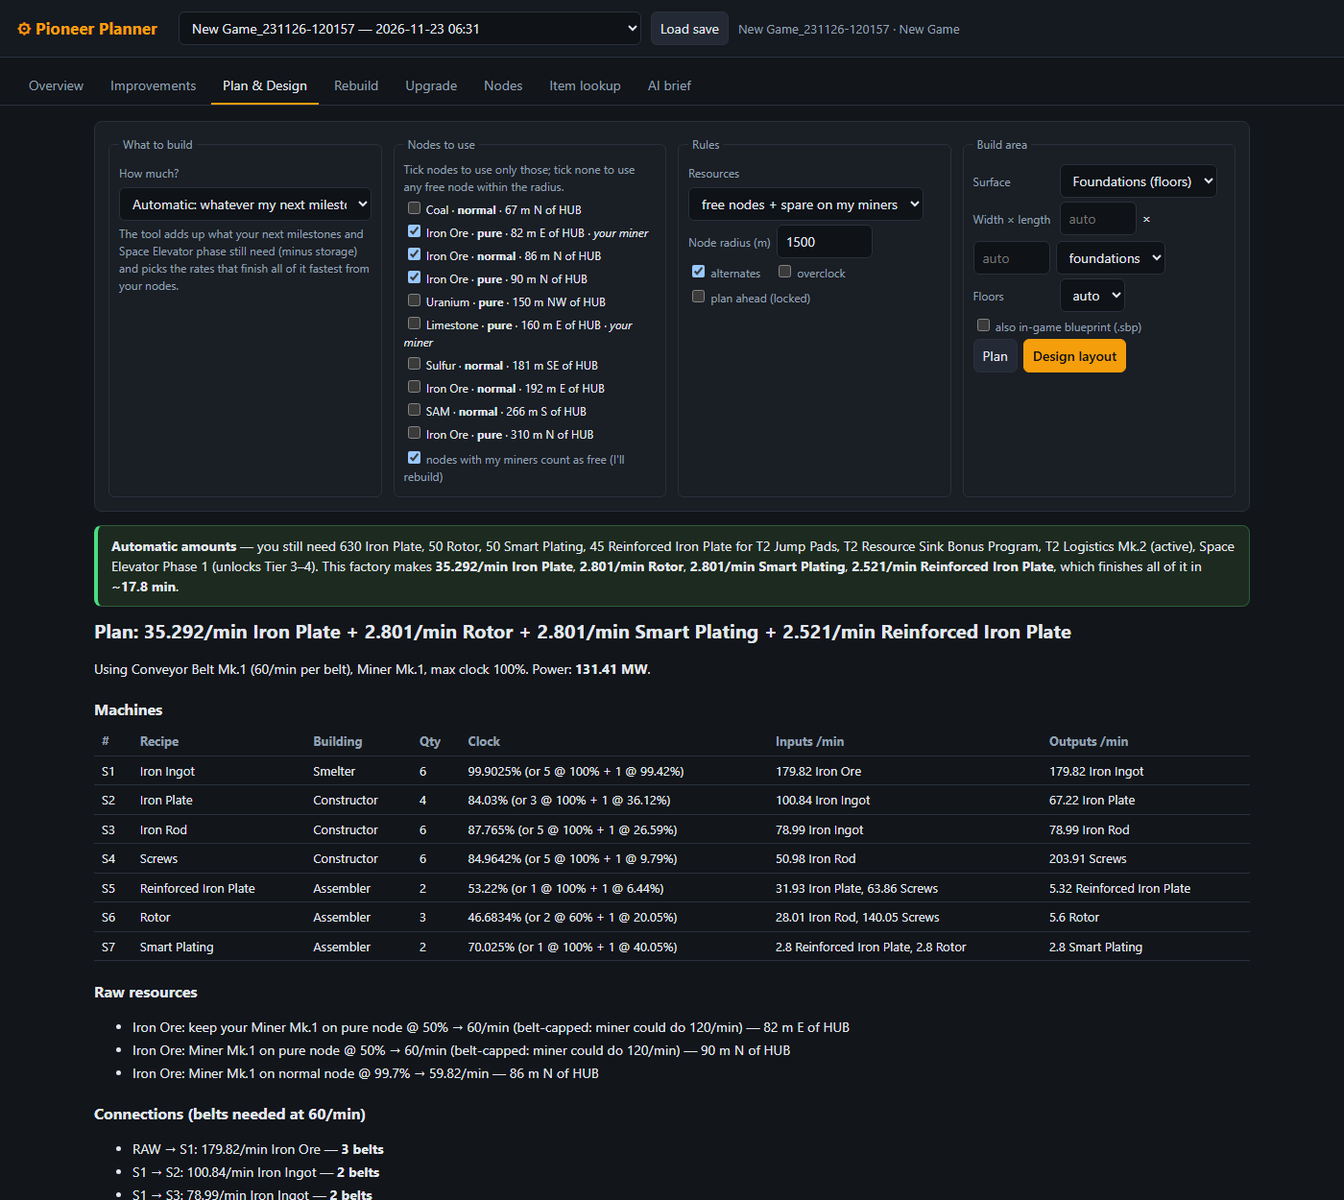
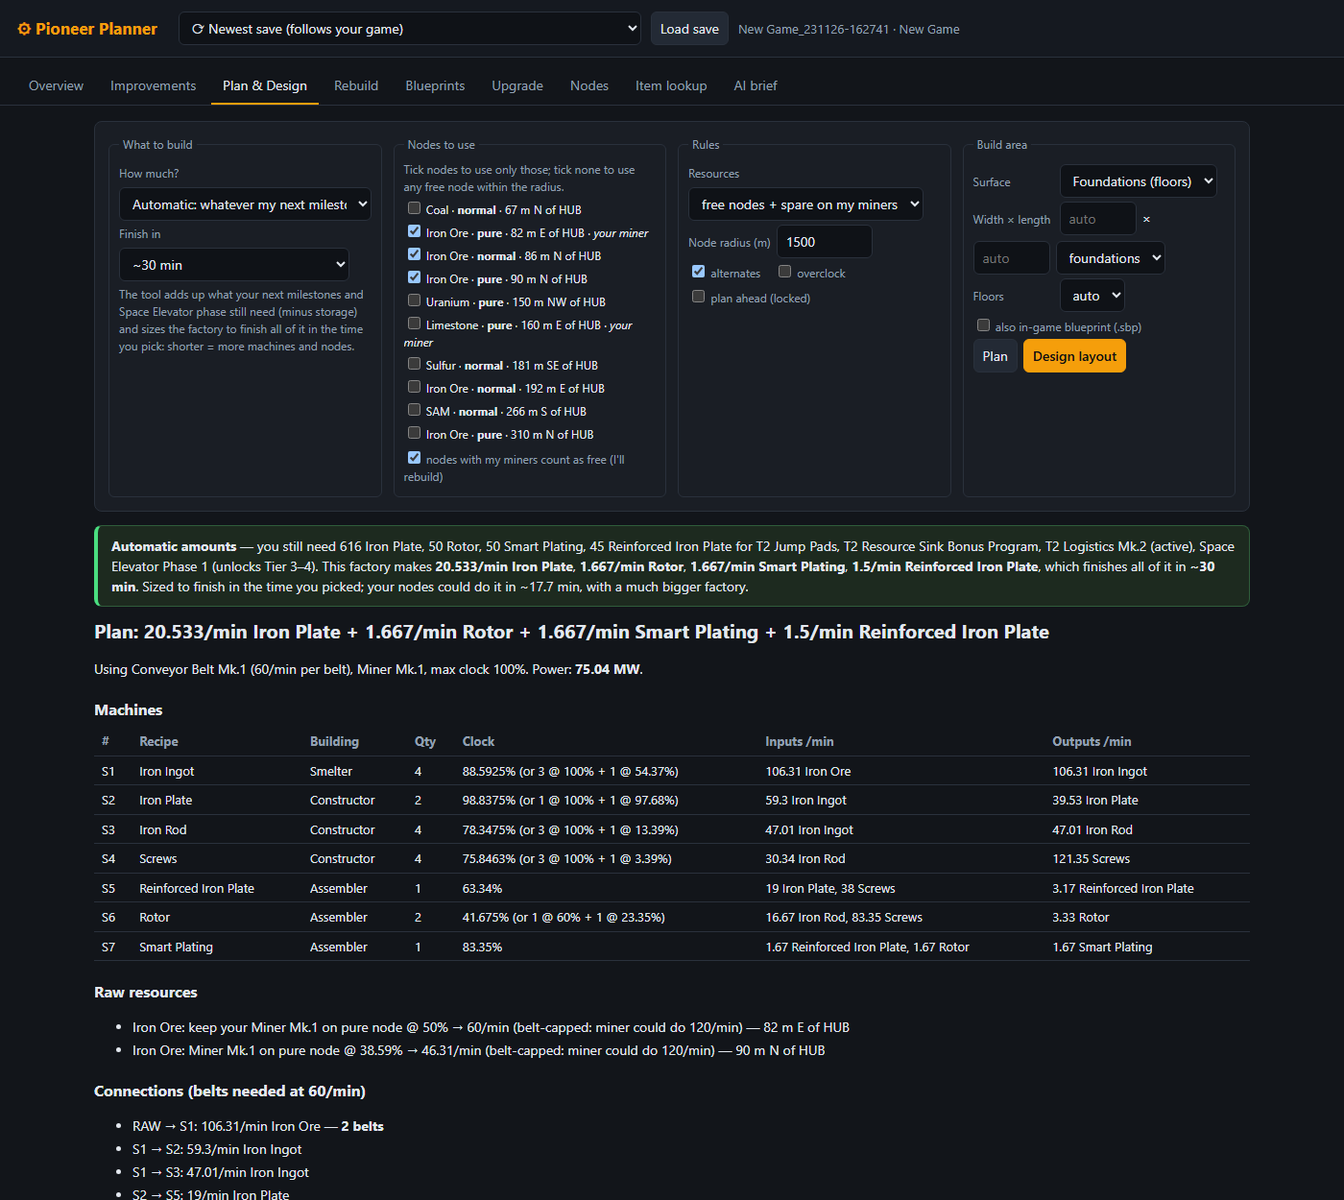
Size the automatic milestone factory to a finish time (default 30 min)
The milestones/active goal used to plan the fastest possible finish, which
pulled in every free node within the radius: on a Tier 2 save that was 228
machines and 1.3 GW to finish in 1.9 min. It now sizes the factory to finish
in a chosen time (default 30 min; 15 min to 2 h, or "fastest"), falling back
to the fastest the nodes allow when they can't reach it.

- "Finish in" choice on Plan & Design and Rebuild (+ deep link &minutes=)
- CLI --minutes N|fastest, MCP goal_minutes
- Result explains the choice and how fast the nodes could go
- Test, README and plan screenshot updated

diff --git a/src/web/public/index.html b/src/web/public/index.html
@@ -81,6 +81,7 @@ a.btn{display:inline-block;text-decoration:none;color:var(--text);background:#23
           <option value="items">Automatic: these items, as much as my nodes allow</option>
           <option value="targets">I'll type the amounts</option>
         </select></div>
+        <div class="row" id="minutesRow"><label>Finish in</label><select id="goalMinutes"><option value="15">~15 min (bigger factory)</option><option value="30" selected>~30 min</option><option value="60">~1 hour (smaller)</option><option value="120">~2 hours (smallest)</option><option value="fastest">as fast as my nodes allow (huge)</option></select></div>
         <div id="goalHint" class="hint"></div>
         <div id="targetsWrap">
           <div id="targets"></div>
@@ -114,6 +115,7 @@ a.btn{display:inline-block;text-decoration:none;color:var(--text);background:#23
       <fieldset><legend>1 · Nodes to use (none ticked = any node nearby)</legend><div id="rbNodes" class="hint">Loading nearby nodes…</div></fieldset>
       <fieldset><legend>2 · Goal &amp; tear-down</legend>
         <div class="row"><label>Build for</label><select id="rbGoal"><option value="tier">everything my next milestones + space elevator need</option><option value="active">only my active milestone</option><option value="targets">the targets on the Plan tab</option></select></div>
+        <div class="row" id="rbMinutesRow"><label>Finish in</label><select id="rbMinutes"><option value="15">~15 min (bigger factory)</option><option value="30" selected>~30 min</option><option value="60">~1 hour (smaller)</option><option value="120">~2 hours (smallest)</option><option value="fastest">as fast as my nodes allow (huge)</option></select></div>
         <div class="row"><button id="rbNeeds">What do I still need?</button></div>
         <div class="row"><label>Dismantle</label><select id="rbScope"><option value="near">old lines within</option><option value="all">all old lines</option><option value="none">nothing</option></select><input type="number" id="rbRadius" value="250" style="width:80px"> m of HUB</div>
         <div class="row"><label><input type="checkbox" id="rbPower"> also lines that feed my power</label></div>
@@ -318,7 +320,7 @@ async function loadNodePicker(containerId, cls) {
 }
 const loadRbNodes = () => loadNodePicker('rbNodes', 'rbNode');
 const GOAL_HINTS = {
-  milestones: 'The tool adds up what your next milestones and Space Elevator phase still need (minus storage) and picks the rates that finish all of it fastest from your nodes.',
+  milestones: 'The tool adds up what your next milestones and Space Elevator phase still need (minus storage) and sizes the factory to finish all of it in the time you pick: shorter = more machines and nodes.',
   active: 'Like above, but only for the milestone you have selected in the HUB.',
   items: 'Pick the items; leave the amount blank and the tool makes as much as your nodes allow (the mix follows what your milestones need). You can still type an amount for some of them.',
   targets: 'Type how many per minute you want of each item.',
@@ -328,11 +330,14 @@ function syncGoalMode() {
   // item modes always show at least one row to type into
   if ((g === 'items' || g === 'targets') && !document.querySelector('#targets .target')) addTarget();
   $('targetsWrap').style.display = g === 'milestones' || g === 'active' ? 'none' : '';
+  $('minutesRow').style.display = g === 'milestones' || g === 'active' ? '' : 'none';
   $('maxRow').style.display = g === 'targets' ? '' : 'none';
   $('goalHint').textContent = GOAL_HINTS[g];
   document.querySelectorAll('#targets .target input[type=number]').forEach((i) => { i.placeholder = g === 'items' ? 'auto' : '/min'; });
 }
 $('goalMode').onchange = syncGoalMode;
+// the finish time only applies to the automatic milestone goals
+$('rbGoal').onchange = () => { $('rbMinutesRow').style.display = $('rbGoal').value === 'targets' ? 'none' : ''; };
 async function loadItems() {
   const j = await api('/api/items');
   $('itemsList').innerHTML = j.data.map((x) => `<option value="${esc(x.name)}">${x.unlocked ? '' : '🔒 locked'}</option>`).join('');
@@ -371,6 +376,7 @@ async function deepLink(qp) {
     if (qp.get('line')) await $('upLineBtn').onclick();
   } else if (tab === 'plan') {
     if (qp.get('goal')) { $('goalMode').value = qp.get('goal'); syncGoalMode(); }
+    if (qp.get('minutes')) $('goalMinutes').value = qp.get('minutes');
     for (const id of (qp.get('nodes') || '').split(',').filter(Boolean)) {
       const cb = [...document.querySelectorAll('.planNode')].find((c) => c.value === id);
       if (cb) cb.checked = true;
@@ -380,6 +386,7 @@ async function deepLink(qp) {
     else if (qp.get('run') === 'plan') await $('planBtn').onclick();
   } else if (tab === 'rebuild') {
     await loadRbNodes();
+    if (qp.get('minutes')) $('rbMinutes').value = qp.get('minutes');
     for (const id of (qp.get('nodes') || '').split(',').filter(Boolean)) {
       const cb = [...document.querySelectorAll('.rbNode')].find((c) => c.value === id);
       if (cb) cb.checked = true;
@@ -436,6 +443,7 @@ function request() {
   const nodes = [...document.querySelectorAll('.planNode:checked')].map((c) => c.value);
   return {
     goal: g,
+    goalMinutes: $('goalMinutes').value,
     targets,
     nodes: nodes.length ? nodes : undefined,
     rebuild: $('planRebuild').checked,
@@ -654,7 +662,7 @@ function rbBody() {
   const base = request();
   // "the targets on the Plan tab" keeps that tab's mode (typed amounts or automatic items)
   const planGoal = ['milestones', 'active'].includes(base.goal) ? 'items' : base.goal;
-  const req = { ...base, nodes: nodes.length ? nodes : undefined, rebuild: true, goal: goal === 'targets' ? planGoal : goal === 'active' ? 'active' : 'milestones', targets: goal === 'targets' ? base.targets : [], maximize: goal === 'targets' ? base.maximize : undefined, resources: 'free-nodes' };
+  const req = { ...base, goalMinutes: $('rbMinutes').value, nodes: nodes.length ? nodes : undefined, rebuild: true, goal: goal === 'targets' ? planGoal : goal === 'active' ? 'active' : 'milestones', targets: goal === 'targets' ? base.targets : [], maximize: goal === 'targets' ? base.maximize : undefined, resources: 'free-nodes' };
   const floors = $('rbFloors').value;
   const ar = { mode: $('rbMode').value, width: Number($('rbWidth').value) || undefined, length: Number($('rbLength').value) || undefined, unit: $('rbUnit').value, floors: floors === 'auto' ? 'auto' : Number(floors), blueprint: $('rbBp').checked };
   const scope = { scope: $('rbScope').value, radius: Number($('rbRadius').value) || 250, includePower: $('rbPower').checked };

diff --git a/src/mcp/server.js b/src/mcp/server.js
@@ -46,8 +46,9 @@ const planShape = {
   nearest_nodes: z.number().int().optional().describe('Use only the N nearest nodes to the site'),
   node_resources: z.array(z.string()).optional().describe('With nearest_nodes: only count nodes of these resources, e.g. ["Iron Ore"]'),
   rebuild: z.boolean().optional().describe('Treat nodes that already have a miner as fully free (their old consumers will be dismantled; the miner is kept)'),
-  goal: z.enum(['targets', 'milestones', 'active', 'items']).optional().describe('How amounts are chosen. targets: the rates you give. milestones: AUTOMATIC — everything the milestones the player can buy now (+ next Space Elevator phase) still need beyond storage, finishing all of it fastest. active: same for the active milestone only. items: AUTOMATIC — the auto_items as much as the nodes allow. Use milestones/items when the player does not know how much to make.'),
+  goal: z.enum(['targets', 'milestones', 'active', 'items']).optional().describe('How amounts are chosen. targets: the rates you give. milestones: AUTOMATIC — everything the milestones the player can buy now (+ next Space Elevator phase) still need beyond storage, sized to finish all of it in goal_minutes (default 30). active: same for the active milestone only. items: AUTOMATIC — the auto_items as much as the nodes allow. Use milestones/items when the player does not know how much to make.'),
   auto_items: z.array(z.string()).optional().describe('With goal "items": items to make without fixed rates (amounts chosen automatically)'),
+  goal_minutes: z.union([z.number().positive(), z.literal('fastest')]).optional().describe('With goal milestones/active: finish everything in about this many minutes (default 30: a modest factory). Shorter = bigger factory. "fastest" = as big as the nodes allow (usually far too big)'),
 };
 const toRequest = (a) => ({
   targets: a.targets || [],
@@ -67,6 +68,7 @@ const toRequest = (a) => ({
   nodeResources: a.node_resources,
   rebuild: a.rebuild,
   goal: a.goal,
+  goalMinutes: a.goal_minutes,
   autoItems: a.auto_items,
 });
 const areaShape = {
@@ -150,7 +152,7 @@ server.registerTool('milestone_needs', {
 
 server.registerTool('plan_rebuild', {
   title: 'Plan a tear-down and rebuild',
-  description: 'For replacing temporary builds: plans the new factory (default goal: finish the next milestones as fast as possible from the chosen nodes), lays it out, then compares its cost with storage + what dismantling the old lines refunds (100%). Lists shortages and how to cover each (wait for current production, hand-craft, or build a small affordable stage 1 first) and gives the order of work: what to craft first, when to dismantle, what to build first.',
+  description: 'For replacing temporary builds: plans the new factory (default goal: finish the next milestones in ~30 min from the chosen nodes; set goal_minutes to change), lays it out, then compares its cost with storage + what dismantling the old lines refunds (100%). Lists shortages and how to cover each (wait for current production, hand-craft, or build a small affordable stage 1 first) and gives the order of work: what to craft first, when to dismantle, what to build first.',
   inputSchema: {
     ...planShape,
     dismantle: z.union([z.enum(['near', 'all', 'none']), z.array(z.number().int())]).optional().describe('Which old lines to tear down: near (default, within dismantle_radius of the site), all, none, or line numbers from the result'),

diff --git a/src/core/actions.js b/src/core/actions.js
@@ -3,7 +3,7 @@ import fs from 'node:fs';
 import os from 'node:os';
 import path from 'node:path';
 import { exportBlueprints } from '../blueprint/build.js';
-import { milestoneNeeds, planForGoals } from '../planner/goals.js';
+import { DEFAULT_GOAL_MINUTES, milestoneNeeds, planForGoals } from '../planner/goals.js';
 import { productionGroups, rebuildCheck } from '../rebuild/rebuild.js';
 import { guidePage, renderGuide } from '../rebuild/guide.js';
 import { upgradeOptions } from '../analysis/upgrade.js';
@@ -112,6 +112,7 @@ export function itemAction(query) {
  *  'active'     automatic: only the active milestone
  *  'items'      automatic: request.autoItems (or targets given without a rate) — as much as the nodes allow,
  *               mixed in the ratio your milestones still need them (equal mix for items they don't need)
+ * request.goalMinutes (milestones / active): finish in about this many minutes (default 30), or 'fastest'.
  * Returns { plan, goal } or { error: {data, markdown} }.
  */
 function resolvePlan(gd, m, request) {
@@ -138,10 +139,13 @@ function resolvePlan(gd, m, request) {
   } else {
     needsInfo = milestoneNeeds(gd, m, { scope: mode === 'active' ? 'active' : request.goalScope || 'tier' });
   }
-  const g = planForGoals(gd, m, { ...request, targets: fixed }, needsInfo);
+  // milestone modes are sized to a finish time; "items" means as much as the nodes allow
+  const gm = request.goalMinutes;
+  const minutes = mode === 'items' || gm === 'fastest' || gm === 0 || gm === '0' ? undefined : Number(gm) > 0 ? Number(gm) : DEFAULT_GOAL_MINUTES;
+  const g = planForGoals(gd, m, { ...request, targets: fixed }, needsInfo, { minutes });
   if (g.nothingNeeded) return { error: { data: g, markdown: `Nothing is missing: your storage already has everything ${mode === 'active' ? 'your active milestone' : 'the milestones you can buy now'} need${g.needs?.goals?.length ? ` (${g.needs.goals.map((x) => x.name).join(', ')})` : ''}. Go submit them at the HUB, or pick items / give amounts instead.` } };
   if (!g.ok) return { error: { data: g, markdown: `**No plan possible.** ${g.message}` } };
-  return { plan: g.plan, goal: { mode, minutes: g.minutes, targets: g.targets, needs: g.needs, blocked: g.blocked } };
+  return { plan: g.plan, goal: { mode, minutes: g.minutes, fastestMinutes: g.fastestMinutes, wantedMinutes: g.wantedMinutes, limitedBy: g.limitedBy, targets: g.targets, needs: g.needs, blocked: g.blocked } };
 }
 
 export function planAction(request) {
@@ -367,7 +371,7 @@ export function rebuildAction(request = {}, area = {}, scope = {}) {
   files.guide = guideFile;
   const guideHtml = renderGuide(check.timeline, guideOpts);
   return {
-    data: { plan, goal: goal && { minutes: goal.minutes, targets: goal.targets, needs: goal.needs, blocked: goal.blocked }, check, files, blueprints, guideHtml },
+    data: { plan, goal: goal && { minutes: goal.minutes, fastestMinutes: goal.fastestMinutes, wantedMinutes: goal.wantedMinutes, limitedBy: goal.limitedBy, targets: goal.targets, needs: goal.needs, blocked: goal.blocked }, check, files, blueprints, guideHtml },
     markdown: fmt.rebuild(plan, goal, check, layout, files) + `\n**Visual step-by-step guide:** ${guideFile}` + (blueprints ? fmt.blueprints(blueprints) : ''),
   };
 }

diff --git a/src/planner/goals.js b/src/planner/goals.js
@@ -1,5 +1,5 @@
 // "What do I still need?" — remaining milestone / space-elevator costs minus what you have,
-// and a planner mode that builds the factory finishing all of it fastest.
+// and a planner mode that builds the factory finishing all of it in a chosen time (or as fast as the nodes allow).
 import { itemName, resolveItem } from '../gamedata/loader.js';
 import { nextUnlocks } from '../analysis/analyze.js';
 import { planProduction } from './plan.js';
@@ -31,11 +31,16 @@ export function milestoneNeeds(gd, model, { scope = 'tier', elevator = true } = 
   return { goals, needs };
 }
 
+/** Default finish time for the automatic milestone modes: big enough to matter, small enough to afford. */
+export const DEFAULT_GOAL_MINUTES = 30;
+
 /**
  * Plan the factory that produces every missing goal item in proportion, finishing them all at the same time.
+ * opts.minutes: finish in about this many minutes (a smaller factory); if the nodes can't make it that fast, or
+ * minutes is not given, the factory is as fast as the nodes allow.
  * Items that cannot be made with your unlocks / selected nodes are reported and left out.
  */
-export function planForGoals(gd, model, request, needsInfo) {
+export function planForGoals(gd, model, request, needsInfo, { minutes } = {}) {
   const missing = needsInfo.needs.filter((n) => n.missing > 0);
   if (!missing.length) return { ok: true, nothingNeeded: true, needs: needsInfo };
   // which items can be produced at all with these rules?
@@ -48,13 +53,20 @@ export function planForGoals(gd, model, request, needsInfo) {
   if (!producible.length) return { ok: false, message: `None of the missing items can be made with the selected nodes/unlocks. ${blocked.map((b) => `${b.name}: ${b.reason}`).join(' ')}`, needs: needsInfo, blocked };
   const goal = planProduction(gd, model, { ...request, goalVector: producible.map((n) => ({ item: n.item, amount: n.missing })) });
   if (!goal.ok || !goal.goalT) return { ok: false, message: 'Could not find a production mix for the missing items with these nodes.', needs: needsInfo, blocked };
-  const t = goal.goalT * 0.999;
+  const fastest = 1 / goal.goalT;
+  const wanted = Number(minutes) > 0 ? Number(minutes) : null;
+  // slower than the nodes could go = fewer machines and nodes; never faster than they allow
+  const byTime = wanted !== null && wanted > fastest;
+  const t = byTime ? 1 / wanted : goal.goalT * 0.999;
   const targets = producible.map((n) => ({ item: n.item, rate: Math.round(n.missing * t * 1000) / 1000 })).filter((x) => x.rate > 0);
   const plan = planProduction(gd, model, { ...request, targets: [...(request.targets || []), ...targets], goalVector: undefined });
   return {
     ok: plan.ok,
     plan,
-    minutes: Math.round((1 / goal.goalT) * 10) / 10,
+    minutes: Math.round((byTime ? wanted : fastest) * 10) / 10,
+    fastestMinutes: Math.round(fastest * 10) / 10,
+    wantedMinutes: wanted,
+    limitedBy: byTime ? 'time' : 'nodes',
     targets: targets.map((x) => ({ ...x, name: itemName(gd, x.item) })),
     needs: needsInfo,
     blocked,

diff --git a/src/core/format.js b/src/core/format.js
@@ -107,7 +107,12 @@ export function goalHeader(goal) {
   const blocked = goal.blocked?.length ? `\nCan't make with these nodes/unlocks: ${goal.blocked.map((b) => b.name).join(', ')}.` : '';
   if (goal.mode === 'items') return `> **Automatic amounts** — as much as your nodes allow: ${list}. The mix follows what your milestones still need (equal share for items they don't need).${blocked}\n\n`;
   const missing = goal.needs.needs.filter((n) => n.missing > 0).map((n) => `${n.missing} ${n.name}`).join(', ');
-  return `> **Automatic amounts** — you still need ${missing} for ${goal.needs.goals.map((g) => g.name).join(', ')}. This factory makes ${list}, which finishes all of it in **~${goal.minutes} min**.${blocked}\n\n`;
+  const speed = goal.limitedBy === 'time'
+    ? ` Sized to finish in the time you picked; your nodes could do it in ~${goal.fastestMinutes} min, with a much bigger factory.`
+    : goal.wantedMinutes
+      ? ` That's as fast as these nodes allow (you picked ~${goal.wantedMinutes} min: tick more or better nodes to go faster).`
+      : ' That\'s as fast as these nodes allow.';
+  return `> **Automatic amounts** — you still need ${missing} for ${goal.needs.goals.map((g) => g.name).join(', ')}. This factory makes ${list}, which finishes all of it in **~${goal.minutes} min**.${speed}${blocked}\n\n`;
 }
 
 export function needs(n) {

diff --git a/test/smoke.js b/test/smoke.js
@@ -89,6 +89,20 @@ test('automatic amounts: milestones and items modes', () => {
   assert.equal(items.data.goal?.mode, 'items');
   assert.ok(items.data.goal.targets[0].rate > 0, 'picked a rate automatically');
 });
+test('milestone factory is sized to a finish time, not to every node in range', () => {
+  const def = A.planAction({ goal: 'milestones' });
+  if (!def.data?.goal) return; // nothing missing in this save
+  const fast = A.planAction({ goal: 'milestones', goalMinutes: 'fastest' }).data;
+  const machines = (p) => p.steps.reduce((a, s) => a + s.machines, 0);
+  assert.equal(fast.goal.limitedBy, 'nodes');
+  if (fast.goal.fastestMinutes < 30) {
+    assert.equal(def.data.goal.minutes, 30, 'default finish time');
+    assert.equal(def.data.goal.limitedBy, 'time');
+    assert.ok(machines(def.data) < machines(fast), 'slower finish = fewer machines');
+    const hour = A.planAction({ goal: 'milestones', goalMinutes: 60 }).data;
+    assert.ok(machines(hour) <= machines(def.data), '1 hour is no bigger than 30 min');
+  }
+});
 test('upgrade line + compare plan at better tiers', () => {
   const lines = A.linesAction().data.lines.filter((l) => l.miners.length);
   if (lines.length) {

diff --git a/bin/sfp.js b/bin/sfp.js
@@ -33,7 +33,8 @@ Usage: node bin/sfp.js <command> [args] [--save NAME]
   mcp                           MCP server on stdio (for Claude / other AI clients)
 
 Don't know how much to make? Leave the amounts out:
-  plan --goal milestones        whatever your next milestones + space elevator still need (default if no items)
+  plan --goal milestones        whatever your next milestones + space elevator still need (default if no items),
+                                sized to finish in ~30 min; --minutes 60 = smaller, --minutes fastest = as big as nodes allow
   plan --goal active            only your active milestone
   plan "Iron Plate" "Rotor"     these items, as much as your nodes allow (no ":rate" = automatic)
 
@@ -120,6 +121,7 @@ async function main() {
     nodeResources: opts['node-res'] ? String(opts['node-res']).split(',') : undefined,
     rebuild: !!opts.rebuild,
     goal: opts.goal,
+    goalMinutes: opts.minutes === 'fastest' ? 'fastest' : opts.minutes ? Number(opts.minutes) : undefined,
   });
   const area = () => ({
     mode: opts.mode, width: opts.width && Number(opts.width), length: opts.length && Number(opts.length), unit: opts.unit,

diff --git a/README.md b/README.md
@@ -113,7 +113,7 @@ Then just talk to it, e.g.:
 Use it when you want to tear down what you have and build something better, without getting stuck halfway because you ran out of materials. CLI: `node bin/sfp.js rebuild --nearest 3 --node-res "Iron Ore"`. Web: the **Rebuild** tab. AI: `plan_rebuild`.
 
 1. **Pick nodes.** Tick them in the web UI, pass `--nodes` / `--nearest`, or let the AI ask you. Nodes that already have a miner count as fully free, and the miner is kept.
-2. **Pick a goal.** By default it finishes *everything your next milestones and the next Space Elevator phase still need* (minus what's in storage) as fast as possible from those nodes. Or give your own targets.
+2. **Pick a goal.** By default it builds for *everything your next milestones and the next Space Elevator phase still need* (minus what's in storage), sized to finish in about 30 minutes (pick 15 min to 2 hours, or as fast as the nodes allow). Or give your own targets.
 3. **It checks the money.** The new build's cost (machines, splitters, mergers, foundations, poles, new miners, belts at ~1 unit per 2 m) is compared with your storage plus what dismantling the old lines refunds (100%), including items sitting in machine buffers.
 4. **It covers every shortage** with the fastest option:
    - wait for your current factory;
@@ -205,7 +205,7 @@ node bin/sfp.js help
 ```
 
 **Don't know how much to make?** Leave the amounts out. `plan`, `design` and `rebuild` (and the web UI's *How much?* box, and the AI tools via `goal`) can choose them for you:
-- `--goal milestones`: whatever your next milestones and Space Elevator phase still need beyond storage, at the rates that finish it all fastest. This is the default when you give no items.
+- `--goal milestones`: whatever your next milestones and Space Elevator phase still need beyond storage, sized to finish it all in about 30 minutes. This is the default when you give no items. `--minutes 60` builds a smaller factory, `--minutes 15` a bigger one. `--minutes fastest` uses every node in range, which is usually far too big: on a Tier 2 save it planned 228 machines instead of 18.
 - `--goal active`: the same, for the active milestone only.
 - `"Iron Plate" "Rotor"` (no `:rate`): these items, as much as your nodes allow, mixed in the ratio your milestones need them.
 
@@ -242,7 +242,7 @@ src/save/model.js        save → factory model (unlocks, buildings, belt graph,
 src/analysis/            flow simulation + improvement rules
 src/planner/plan.js      LP planner (unlocks, nodes, belt caps)
 src/layout/              layout engine + SVG/HTML renderer
-src/planner/goals.js     milestone needs + "finish them fastest" planning
+src/planner/goals.js     milestone needs + "finish them in N minutes" planning
 src/rebuild/             dismantle refunds, material balance, staged rebuild order
 src/analysis/upgrade.js  upgrade options for existing miners/lines
 src/blueprint/           .sbp writer, machine modules, learned port geometry, templates, verifier, preview
